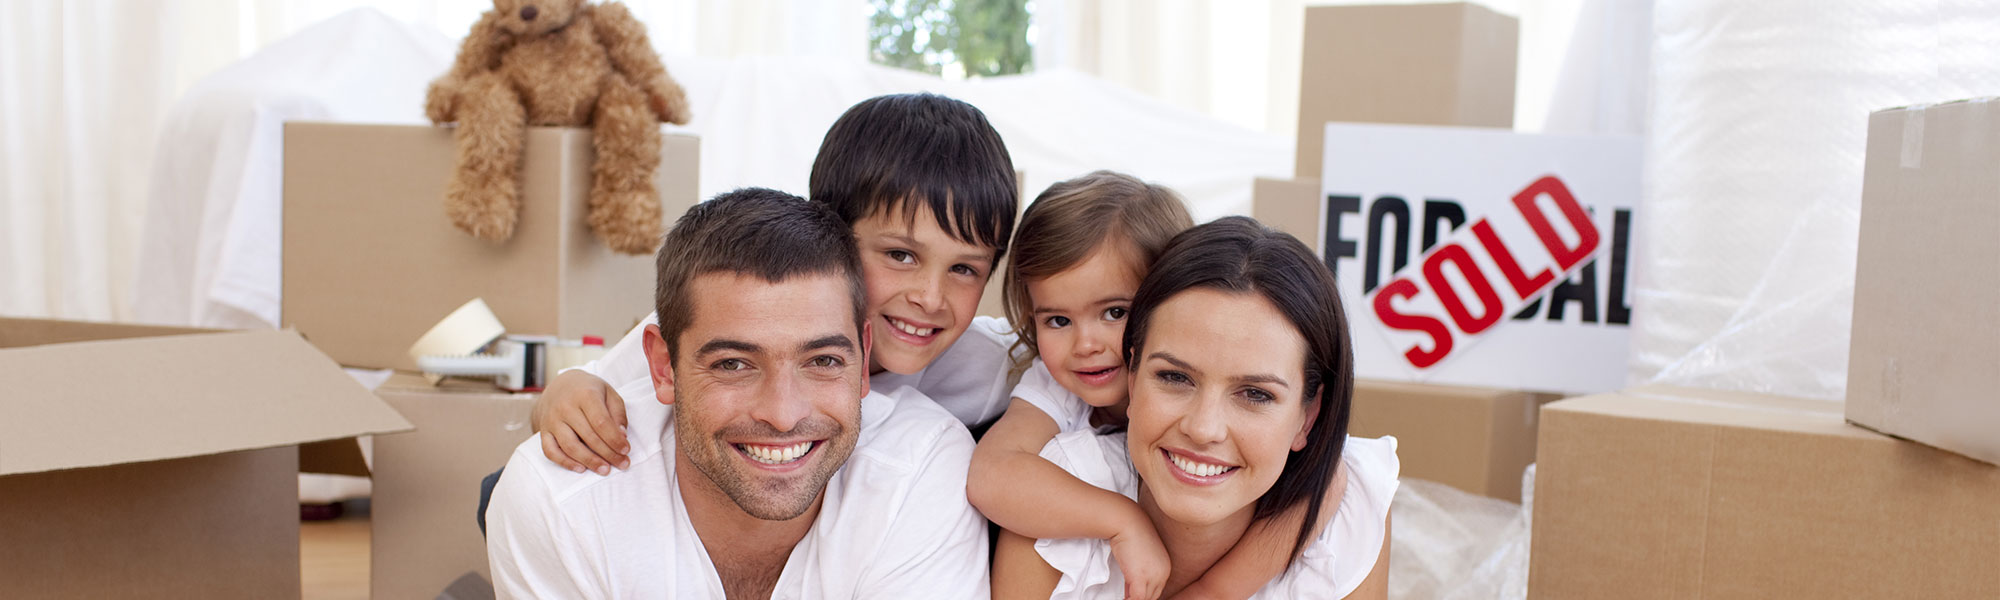
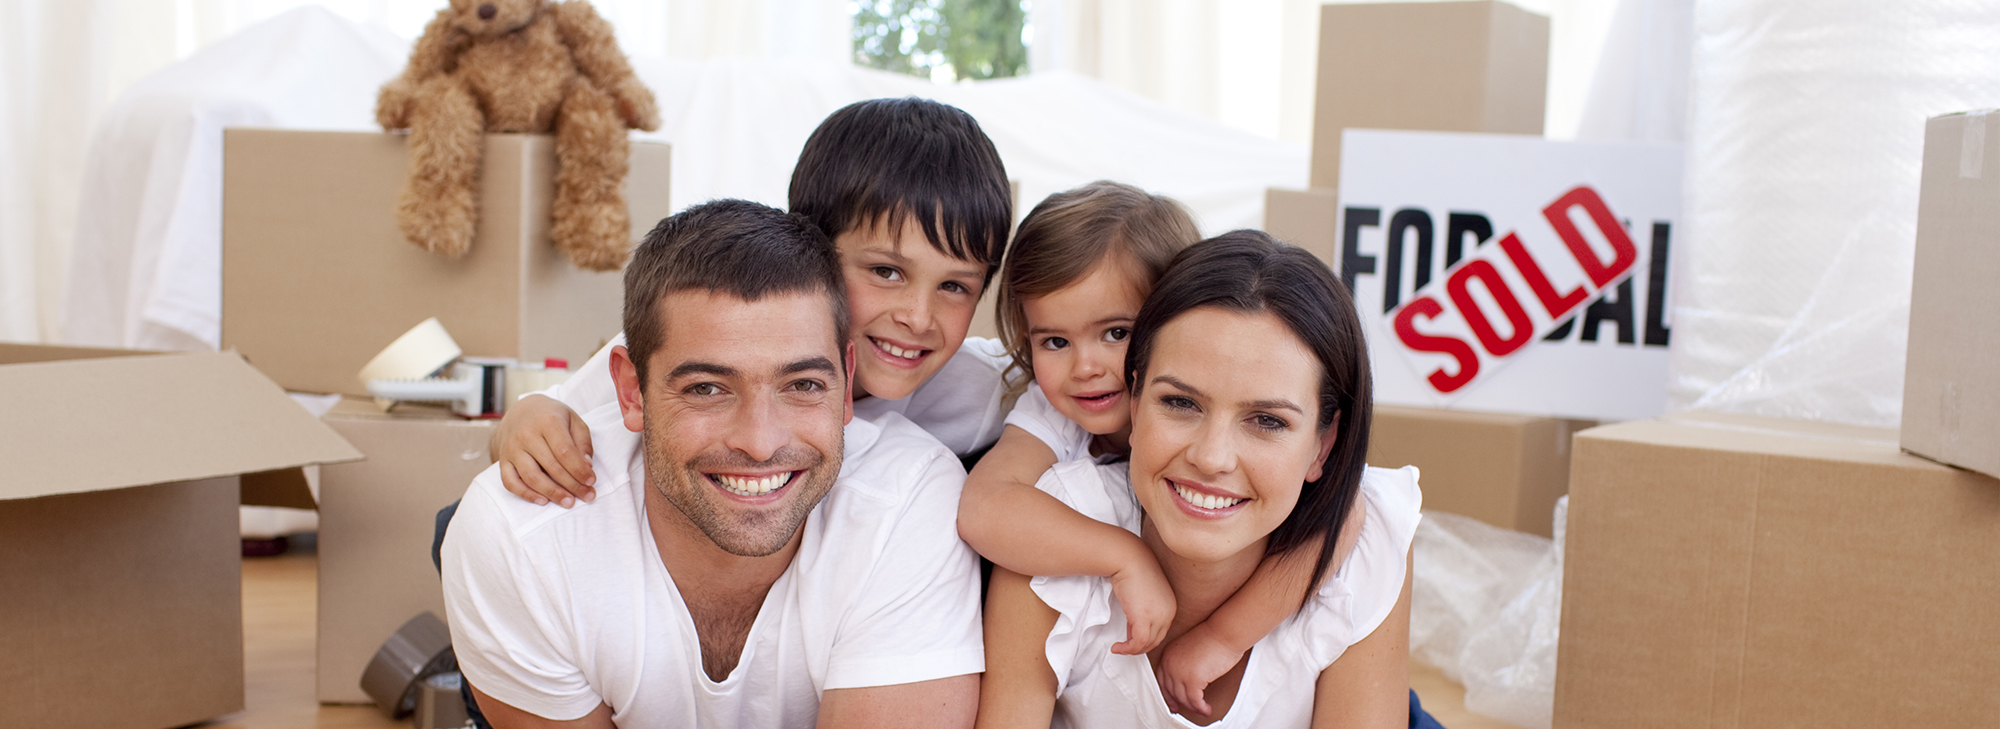
header height

diff --git a/_site/css/main.css b/_site/css/main.css
@@ -1588,7 +1588,7 @@ label.tree-toggle {
   background-position: center;
   background-size: cover;
   padding-top: 10rem;
-  height: 350px;
+  height: 450px;
   margin-top: 69px; }
 
 #hero {

diff --git a/_sass/_header.sass b/_sass/_header.sass
@@ -2,7 +2,7 @@
 	background-position: center
 	background-size: cover
 	padding-top: $nav-height + 5rem
-	height: 350px
+	height: 450px
 	margin-top: 69px
 #hero
 	background-position: center
